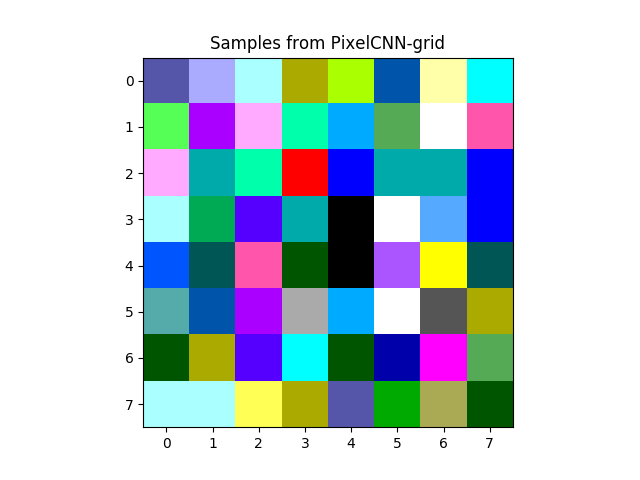
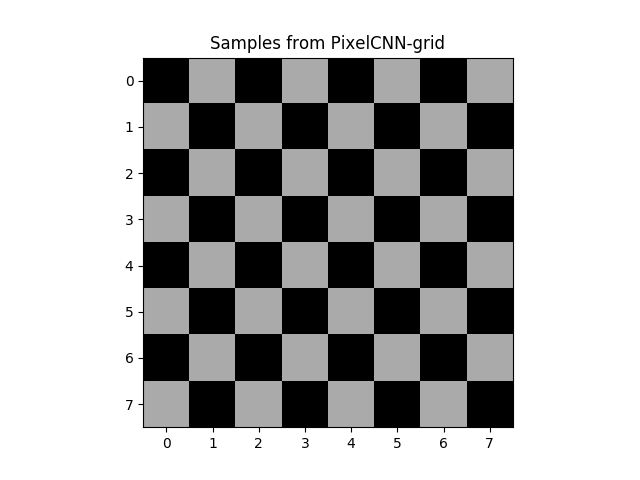
found the bug (might be more?) needed to copy kernel back after masking

diff --git a/hw1/pixelCNN.py b/hw1/pixelCNN.py
@@ -56,8 +56,12 @@ class MaskedCNN(tf.keras.layers.Conv2D):
         self.mask = get_pixelcnn_mask(self.kernel_size[0], in_channels, out_channels, self.isTypeA)
 
     def call(self, inputs):
+        # mask kernel for internal conv op, but then return to copy of kernel after for learning
+        kernel_copy = self.kernel
         self.kernel = self.kernel * self.mask
-        return super().call(inputs)
+        out = super().call(inputs)
+        self.kernel = kernel_copy
+        return out
 
 
 class MaskedResidualBlock(tf.keras.layers.Layer):
@@ -91,7 +95,7 @@ class PixelCNNModel(tf.keras.Model):
     """
     def __init__(self, *args, **kwargs):
         super().__init__(*args, **kwargs)
-        self.output_size = 4
+        self.n_vals = 4
         self.output_channels = 3
         self.n_filters = 128
 
@@ -103,8 +107,7 @@ class PixelCNNModel(tf.keras.Model):
                              MaskedCNN(self.n_filters, 1, False),
                              tf.keras.layers.ReLU(),
                              MaskedCNN(self.n_filters, 1, False)]
-        self.output_conv = MaskedCNN(self.output_size * self.output_channels, 1, False)
-        self.softmax = tf.keras.layers.Softmax()
+        self.output_conv = MaskedCNN(self.n_vals * self.output_channels, 1, False)
 
     def call(self, inputs, training=None, mask=None):
         img = tf.cast(inputs, tf.float32)
@@ -116,7 +119,7 @@ class PixelCNNModel(tf.keras.Model):
         x = self.output_conv(x)
         # output layer softmax split into n_channels
         n, h, w, _ = tf.shape(inputs)
-        x = tf.reshape(x, (n, h * w, self.output_channels, self.output_size))
+        x = tf.reshape(x, (n, h,  w, self.output_channels, self.n_vals))
         return x
 
 
@@ -166,14 +169,13 @@ class PixelCNN:
         """
         logits = self.forward_logits(x)
         probs = tf.nn.softmax(logits, axis=-1)
-        return tf.reshape(probs, (-1, self.H, self.W, self.C, self.n_vals))
+        return probs
 
     def train_step(self, X_train):
         """
         Takes batch of data X_train
         """
         with tf.GradientTape() as tape:
-            # TODO: clip grads?
             logprob = self.fwd_loss(X_train)
         grads = tape.gradient(logprob, self.model.trainable_variables)
         self.optimizer.apply_gradients(zip(grads, self.model.trainable_variables))
@@ -197,10 +199,7 @@ class PixelCNN:
 
     def fwd_loss(self, X):
         X = tf.reshape(X, (-1, self.H, self.W, self.C))
-
         logits = self.forward_logits(X)
-        logits = tf.reshape(logits, (-1, self.H, self.W, self.C, self.n_vals))
-
         loss = self.loss(X, logits)
         return loss
 
@@ -292,7 +291,4 @@ if __name__ == "__main__":
     test_maskA()
     test_maskB()
 
-# TODO: why is the performance so much better (quicker) on the example one?
-# TODO: try pieces of example one in here?
-# TODO: is the masking non-differentiable? print kernel pre and post mask
-
+# TODO: clean up and simplify

diff --git a/hw1/high_dimensional_data.py b/hw1/high_dimensional_data.py
@@ -49,9 +49,9 @@ def pixel_cnn_main():
     train_and_eval_main(X_test, X_train, X_val, model)
 
 
-def train_and_eval_main(X_test, X_train, X_val, model):
+def train_and_eval_main(X_test, X_train, X_val, model, **kwargs):
     training_logger = TrainingLogger(model.name, "1_3")
-    train_model(X_train, X_val, model, training_logger)
+    train_model(X_train, X_val, model, training_logger, **kwargs)
     eval_model(model, X_test, training_logger)
 
 
@@ -96,9 +96,9 @@ def pixel_cnn_debug(one_pattern=True):
     X_train, X_val, X_test = debug_data()
     if one_pattern:
         X_train = np.repeat(X_train[0][None], 1000, axis=0)
-        train_and_eval_main(X_train, X_train, X_train, model)
+        train_and_eval_main(X_train, X_train, X_train, model, log_every=10, n_iters=100)
     else:
-        train_and_eval_main(X_test, X_train, X_val, model)
+        train_and_eval_main(X_test, X_train, X_val, model, log_every=10, n_iters=100)
 
 
 def plot_debug_data():
